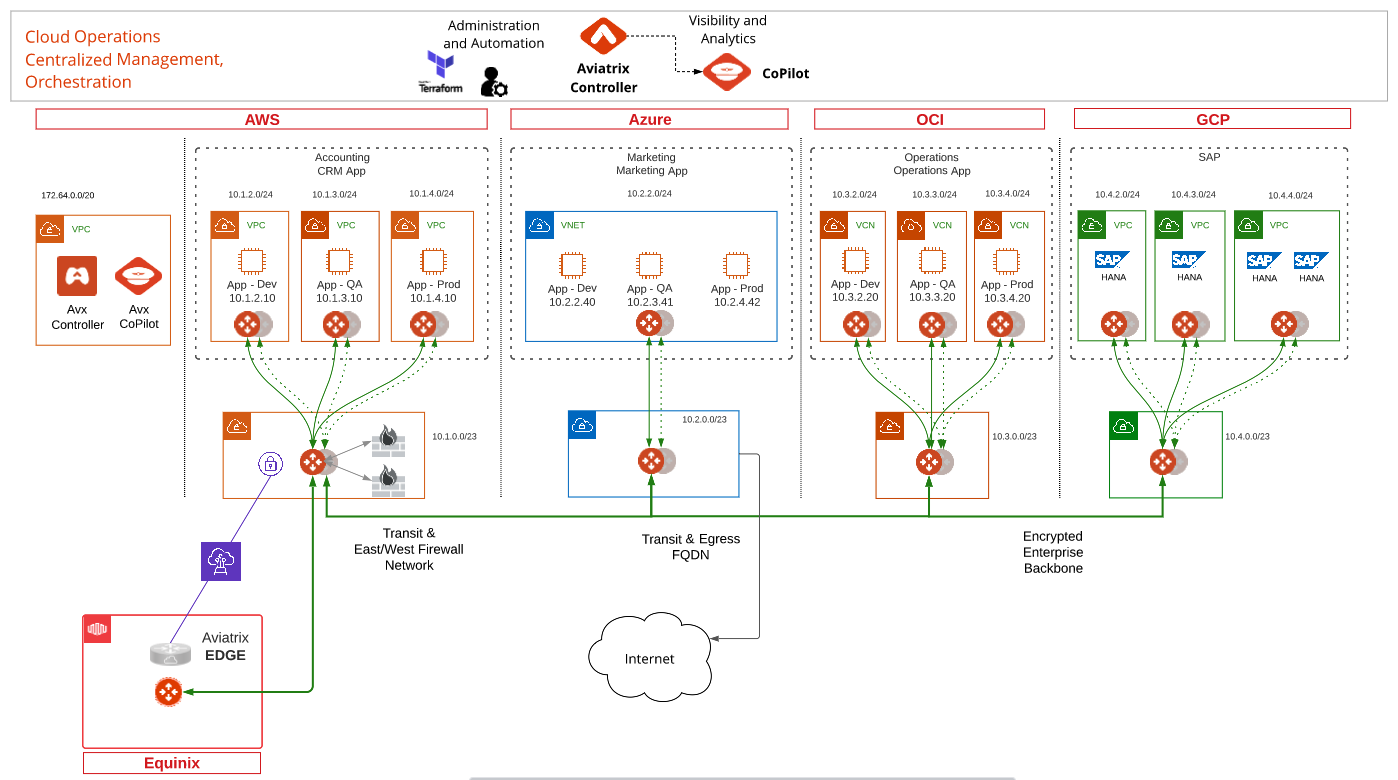
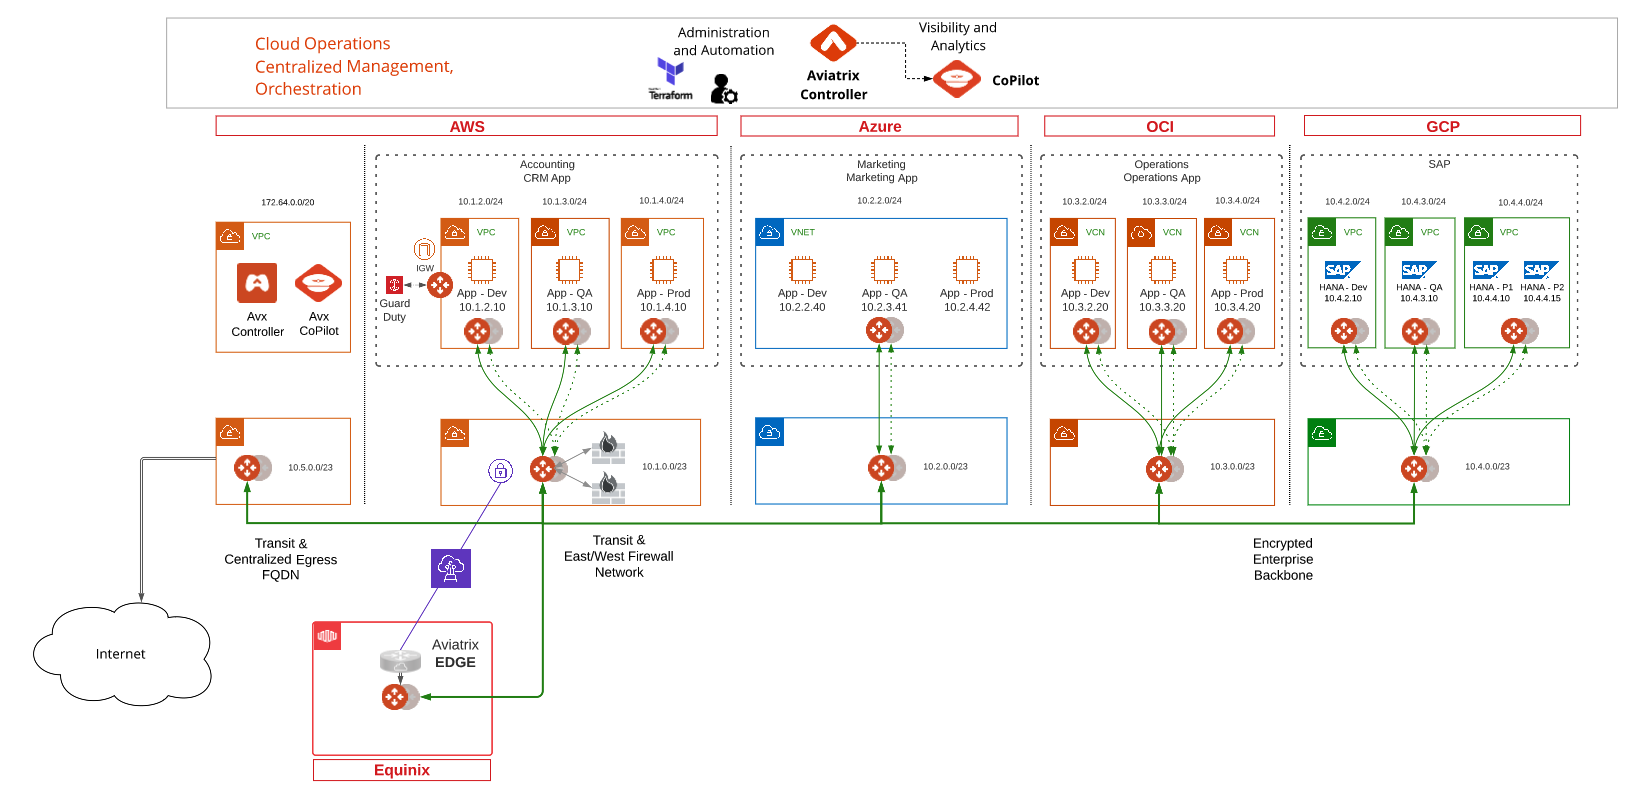
add centralized egress

diff --git a/README.md b/README.md
@@ -1,5 +1,8 @@
 # aws-reinvent-2022
 
+![re:Invent](images/reinvent.png)
+_Nov. 28 - Dec. 2, 2022 | Las Vegas, NV_ 
+
 ## Description
 
 This terraform module is the basis for the demonstration infrastructure used by Aviatrix at 2022 AWS re:Invent. The module builds a full-mesh Airspace network across 4 CSPs with 3 attached application (dev, qa, prod) networks in each cloud (save for Azure where application segmentation is achieved with an Intra-VNet firewall, orchestrated by Aviatrix).
